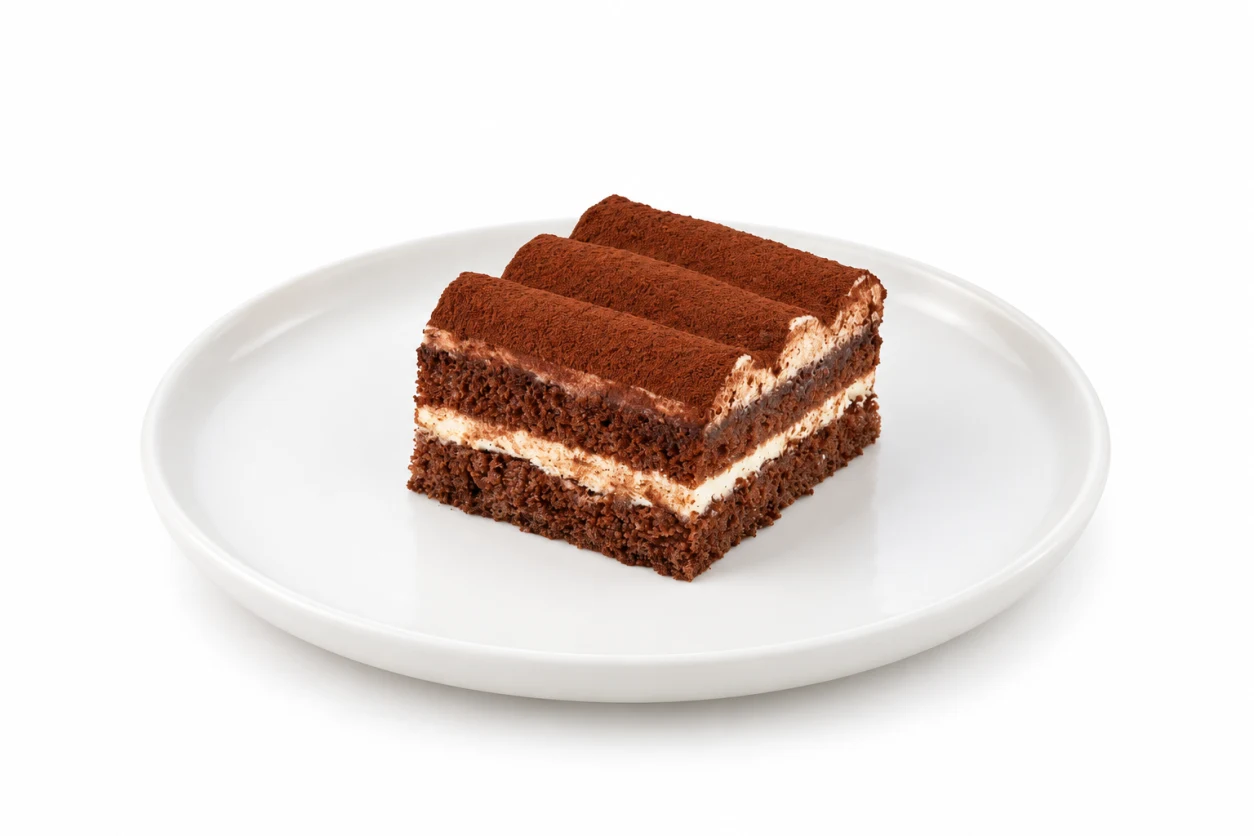
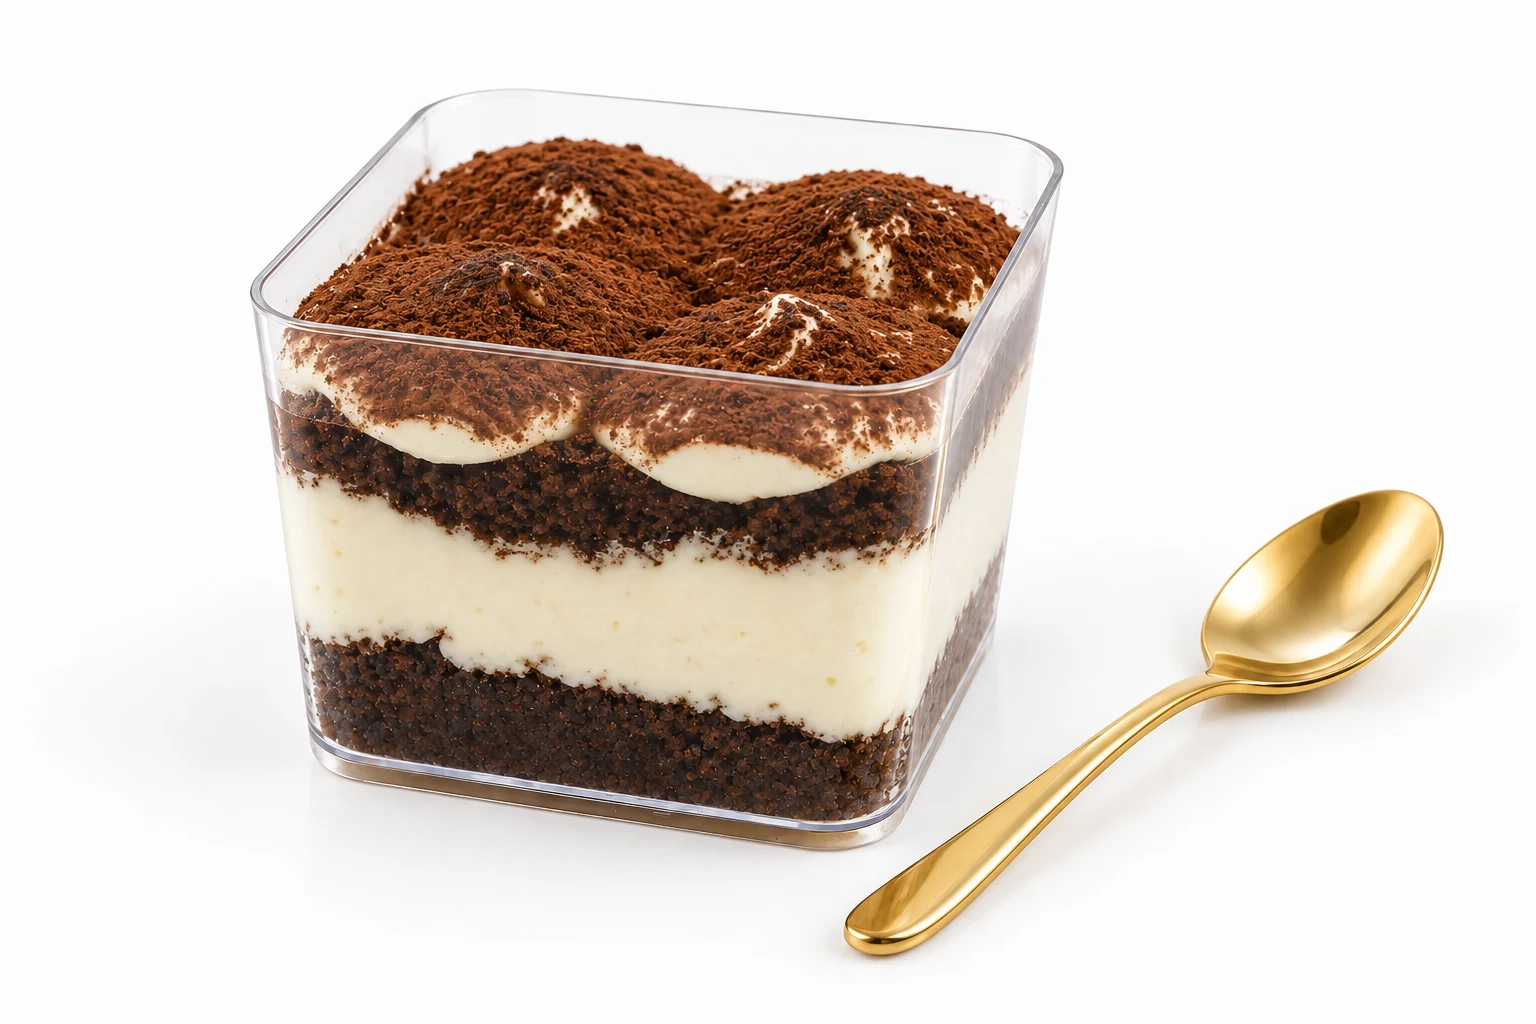
feat(besleme): kategori kapakları kendi çekimimiz, tekil kap tatlıların kareleri
Kategori kapaklarının dördü tedarikçinin ürün fotoğrafıydı, biri de BAŞKA BİR ŞİRKETİN sitesinden
(besegida.com) çekiliyordu — kare orada silinse kategori kapaksız kalırdı, telif de bizim değildi.
Altısı da işletmecinin kendi çekimiyle değişti (1254×1254).

- Tekil kap tatlıların beşine kapak bağlandı; tiramisunun karesi de kendi çekimimizle değişti
  (eski üç kare kaynağın kataloğundandı ve yanlıştı, işletmeci sildi — galeri satırları künyeden
  de düştü, yoksa CDN'de öksüz anahtar kalırdı).
- Görsel künyesine altı kategori ve altı ürün karesi ölçüsüyle yazıldı; dış siteden gelen eski
  kategori satırı silindi.

Doğrulama: `pnpm test:commit` 5125/5125 test geçti. Kapının kırmızı görünmesinin sebebi başka bir
şeridin commit'lenmemiş test dosyası (`management-b2b.test.ts`, untracked): teardown'da olmayan bir
tabloyu (`app_notification`) siliyor. Benim yollarımla ilgisi yok.

diff --git a/scripts/seed-real/data.ts b/scripts/seed-real/data.ts
@@ -442,11 +442,11 @@ export const EK_TASLAKLAR: LooseDraft[] = [
   // Tekil kap pastalar ve trileçe: kaynağın kataloğunda hiç yok, ambalajları elimizde ve künyeleri
   // etiketinden panele girildi (23.09). Kapak fotoğrafları henüz çekilmedi.
   { name: 'Trileçe (Tres Leches Caramel)' },
-  { name: 'Kırmızı Kadife Pasta (tekil kap)' },
-  { name: 'Fıstıklı Pasta (tekil kap)' },
-  { name: 'Ahududulu Cheesecake (tekil kap)' },
-  { name: 'Çikolatalı Tofi Karamel Pasta (tekil kap)' },
-  { name: 'Çikolatalı Pasta (tekil kap)' },
+  { name: 'Kırmızı Kadife Pasta (tekil kap)', ...studyoSeti('kirmizi-kadife-pasta-tekil-kap') },
+  { name: 'Fıstıklı Pasta (tekil kap)', ...studyoSeti('fistikli-pasta-tekil-kap') },
+  { name: 'Ahududulu Cheesecake (tekil kap)', ...studyoSeti('ahududulu-cheesecake-tekil-kap') },
+  { name: 'Çikolatalı Tofi Karamel Pasta (tekil kap)', ...studyoSeti('cikolatali-tofi-karamel-pasta-tekil-kap') },
+  { name: 'Çikolatalı Pasta (tekil kap)', ...studyoSeti('cikolatali-pasta-tekil-kap') },
 ];
 
 /**
@@ -538,7 +538,7 @@ export const CATEGORIES: SeedCategory[] = [
     name: { tr: 'Fırın', fr: 'Boulangerie', de: 'Backwaren' },
     tagline: { tr: 'Börek, poğaça ve simit', fr: 'Böreks, pogaças et simits', de: 'Börek, Pogaça und Simit' },
     featured: true,
-    image: { lezza: 'Cheese-Pastry-Su-Borek-2500g.webp' },
+    image: { file: 'scripts/seed-real/images/kategori/firin.webp' },
     lezza: ['bakery'],
     aiQuestion: {
       tr: '{n} ({w}) nasıl pişirilir — fırın mı tava mı, kaç derecede ve ne kadar? Yanına ne yakışır?',
@@ -551,7 +551,7 @@ export const CATEGORIES: SeedCategory[] = [
     name: { tr: 'Tatlı', fr: 'Desserts', de: 'Süßes' },
     tagline: { tr: 'Baklava, künefe, pasta ve dondurma', fr: 'Baklava, künefe, gâteaux et glaces', de: 'Baklava, Künefe, Torten und Eis' },
     featured: true,
-    image: { lezza: 'Baklava-with-Pistachio-225g.webp' },
+    image: { file: 'scripts/seed-real/images/kategori/tatli.webp' },
     lezza: ['cake', 'dessert', 'ice-cream'],
     aiQuestion: {
       tr: '{n} ({w}) için servis önerileri ver: yanına ne gider, nasıl sunulur, kaç kişilik masada yeter?',
@@ -564,7 +564,7 @@ export const CATEGORIES: SeedCategory[] = [
     name: { tr: 'Et & Tavuk', fr: 'Viande & volaille', de: 'Fleisch & Geflügel' },
     tagline: { tr: 'Döner, mantı ve tavuk', fr: 'Döner, mantı et volaille', de: 'Döner, Mantı und Geflügel' },
     featured: true,
-    image: { lezza: 'Chicken-Tender-Fillet-700g.webp' },
+    image: { file: 'scripts/seed-real/images/kategori/et-tavuk.webp' },
     lezza: ['chicken'],
     aiQuestion: {
       tr: '{n} ({w}) nasıl pişirilir ve neyle servis edilir? Yanına hangi garnitür, hangi sos gider?',
@@ -577,7 +577,7 @@ export const CATEGORIES: SeedCategory[] = [
     name: { tr: 'Meze', fr: 'Mezze', de: 'Meze' },
     tagline: { tr: 'Çiğ köfte, humus ve falafel', fr: 'Çiğ köfte, houmous et falafels', de: 'Çiğ Köfte, Hummus und Falafel' },
     featured: true,
-    image: { lezza: 'Vegan-Raw-Meatballs-1000g.webp' },
+    image: { file: 'scripts/seed-real/images/kategori/meze.webp' },
     // Kaynağın bu kategorisinde kıymalı mantı da var; o kalem seçime girerse buraya düşer, oysa rafı
     // Et & Tavuk'tur (faturadaki mantı taslak olarak oraya yazılıyor).
     lezza: ['anatolian'],
@@ -592,7 +592,7 @@ export const CATEGORIES: SeedCategory[] = [
     name: { tr: 'Doğal & Geleneksel', fr: 'Nature & tradition', de: 'Natur & Tradition' },
     tagline: { tr: 'Pekmez, sirke, öz ve macun', fr: 'Mélasse, vinaigres, extraits et pâtes', de: 'Melasse, Essig, Extrakte und Pasten' },
     featured: true,
-    image: { url: 'https://www.besegida.com/wp-content/uploads/2025/04/Bese-Helva-Pekmez-650.jpg' },
+    image: { file: 'scripts/seed-real/images/kategori/dogal-geleneksel.webp' },
     aiQuestion: {
       tr: '{n} nedir, nasıl üretilir ve mutfakta nasıl kullanılır? Tadı neye benzer, neyle birlikte tüketilir?',
       fr: 'Qu\'est-ce que {n}, comment est-il produit et comment l\'utilise-t-on en cuisine ? Quel goût a-t-il, avec quoi se consomme-t-il ?',
@@ -606,7 +606,7 @@ export const CATEGORIES: SeedCategory[] = [
     tagline: { tr: 'Kuru meyve ve Antep fıstığı', fr: 'Fruits séchés et pistaches', de: 'Trockenfrüchte und Pistazien' },
     featured: true,
     // Kapak, kuruyemiş rafının stüdyo karesinden: depodaki ustaların hiçbiri kuru meyve ya da fıstık değil.
-    image: { file: 'scripts/seed-real/images/antep-fistigi/0.webp' },
+    image: { file: 'scripts/seed-real/images/kategori/kuru-meyve-kuruyemis.webp' },
     aiQuestion: {
       tr: '{n} ({w}) mutfakta nasıl kullanılır? Tadı neye benzer, hangi tariflerde işe yarar?',
       fr: 'Comment utiliser {n} ({w}) en cuisine ? Quel goût a-t-il, dans quelles recettes l\'employer ?',
